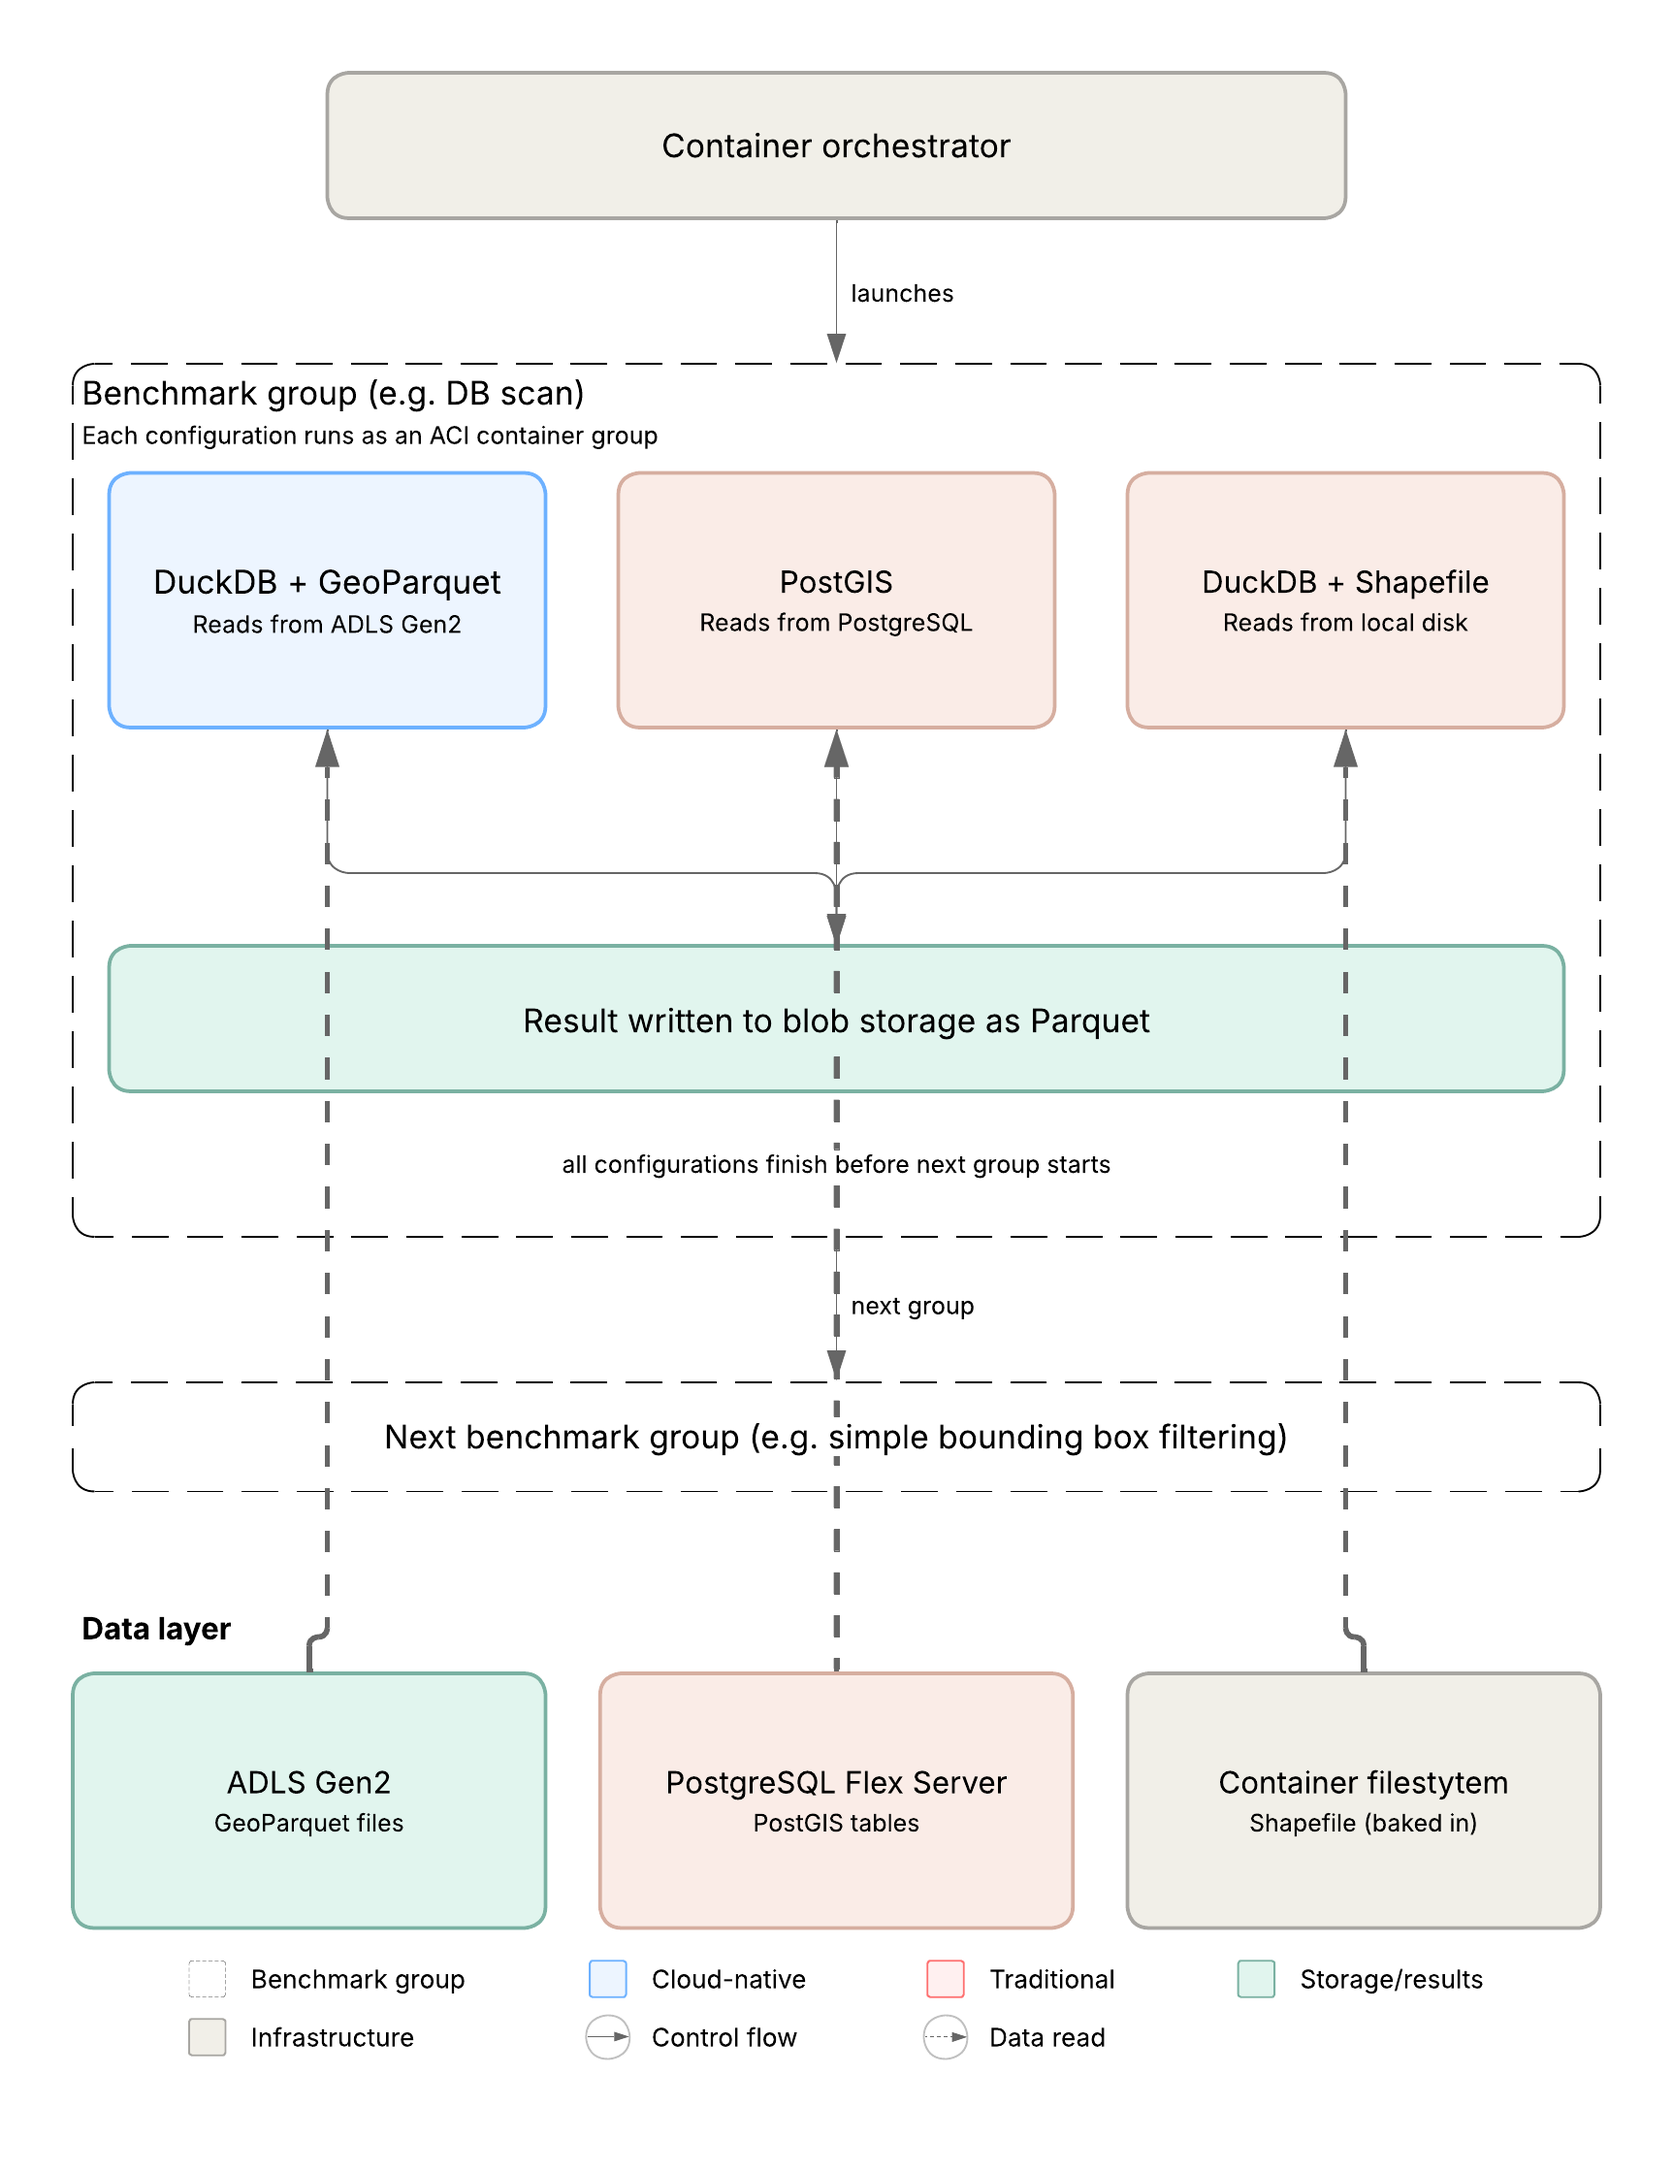
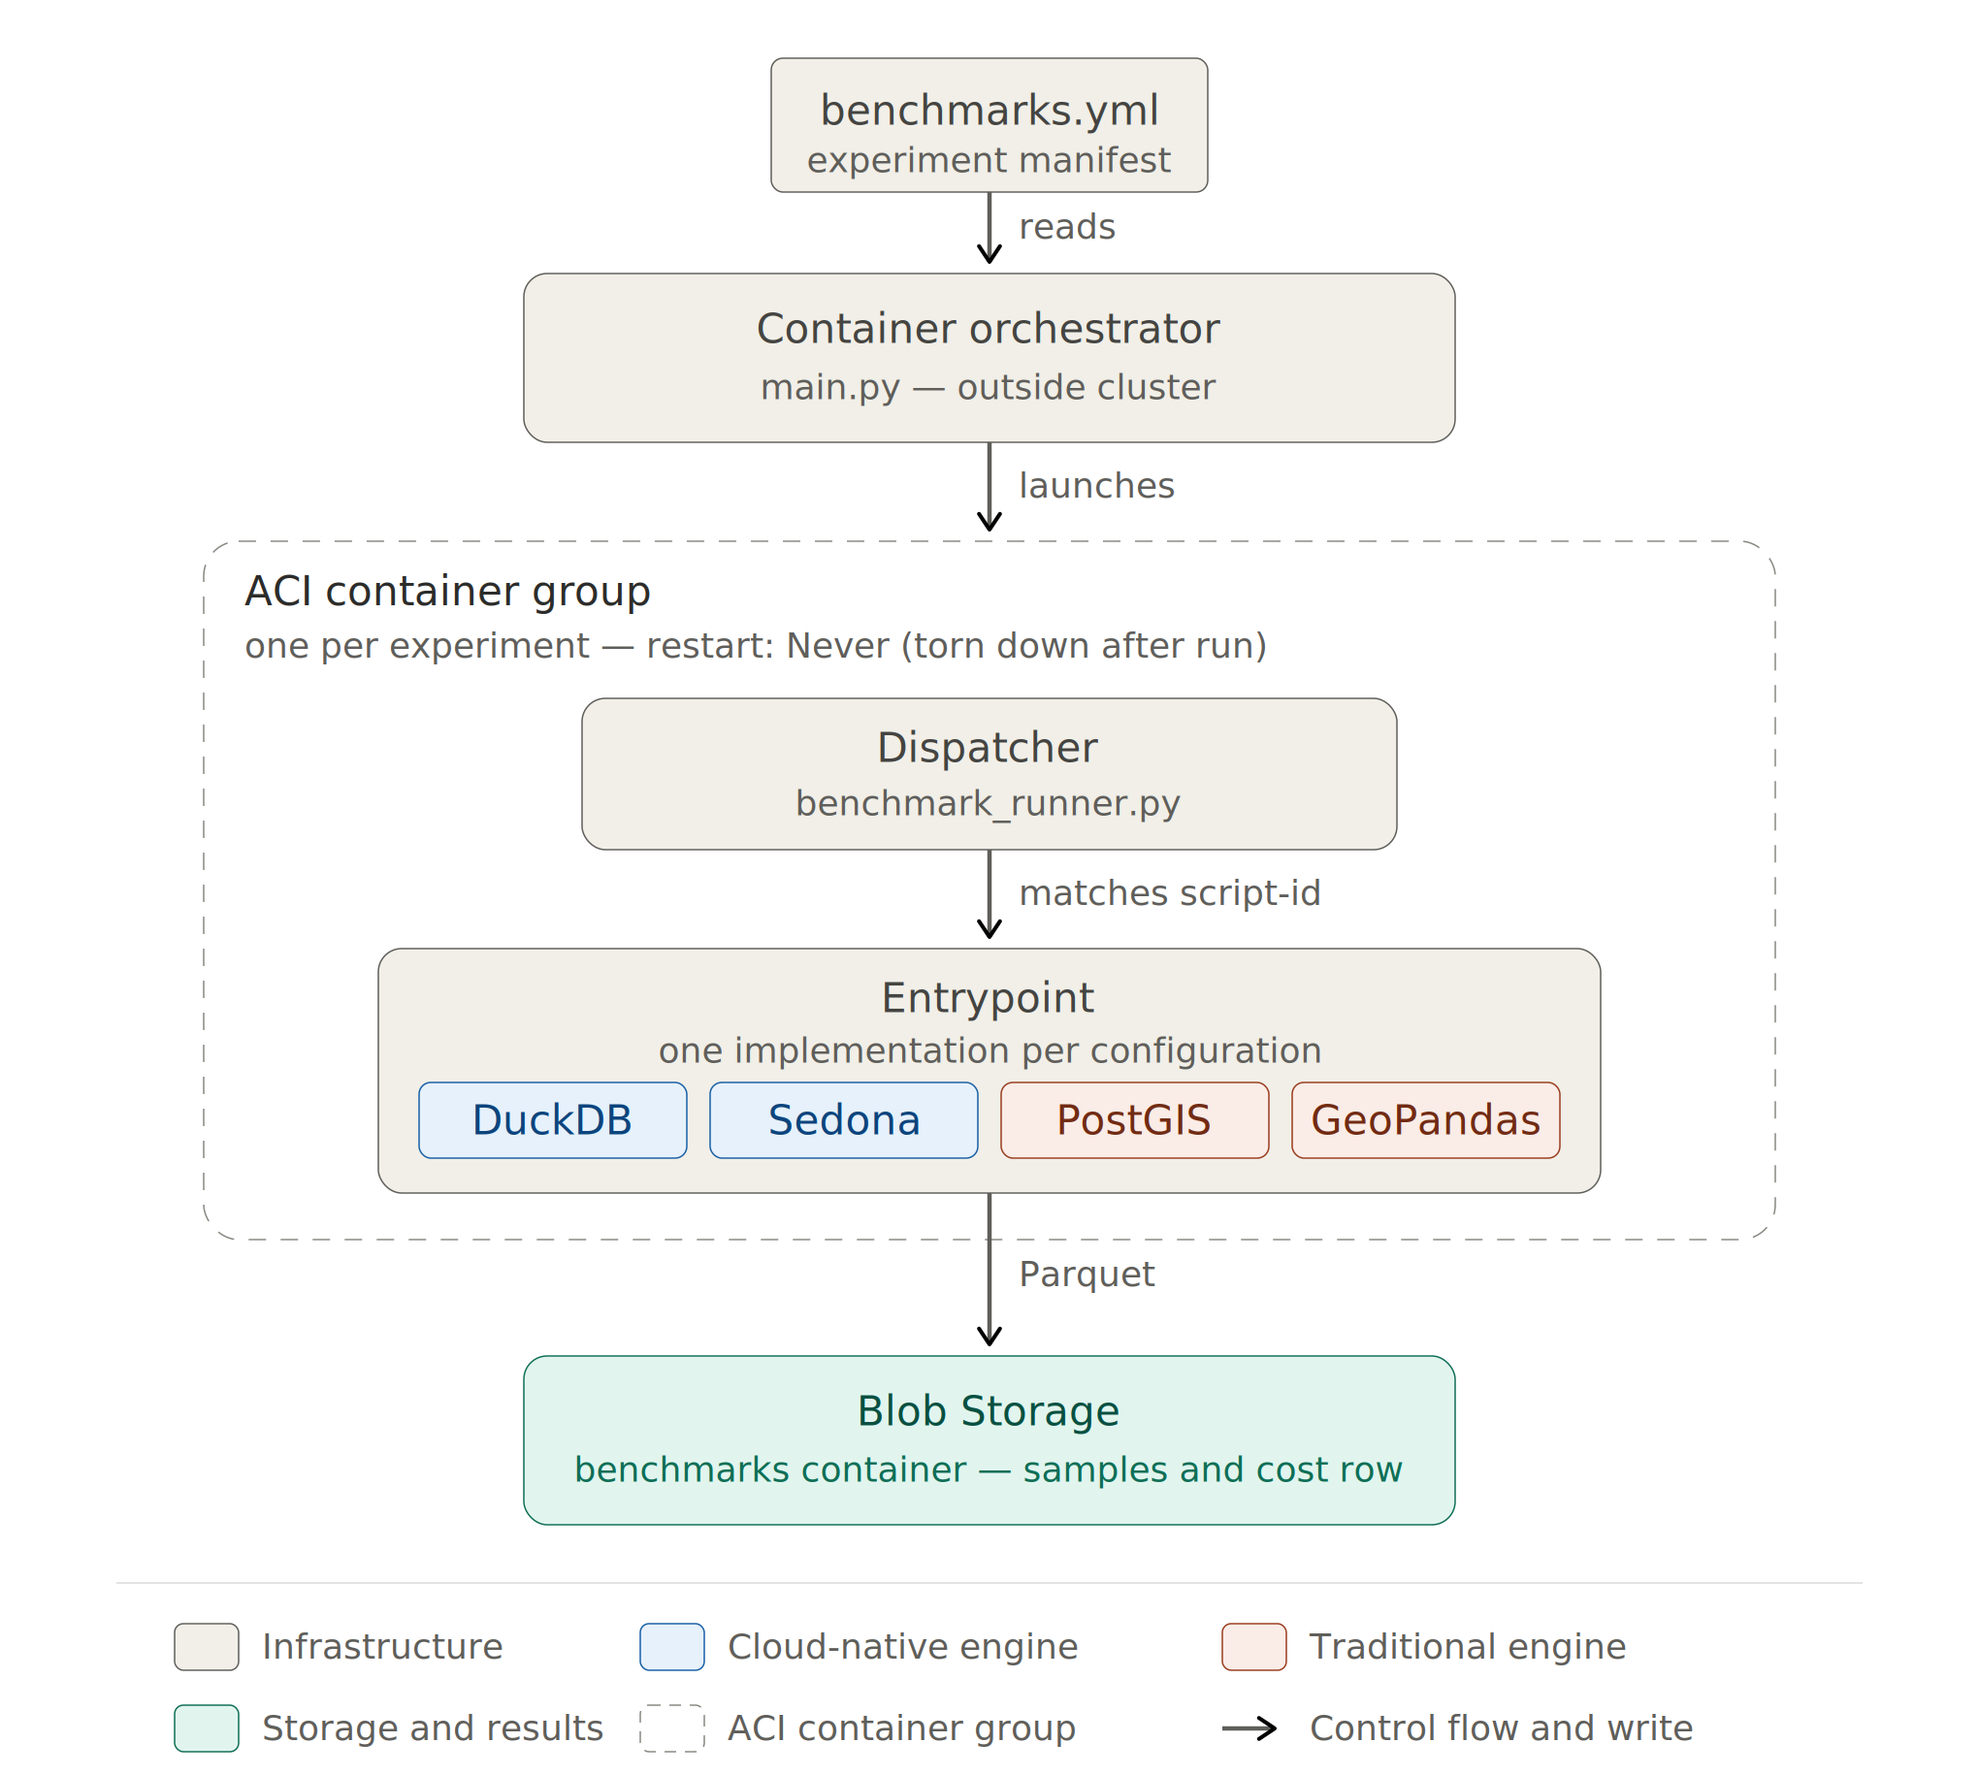
Updates from Overleaf

diff --git a/Chapters/05-system-architecture-and-implementation/sub-chapters/01-architecture-overview.tex b/Chapters/05-system-architecture-and-implementation/sub-chapters/01-architecture-overview.tex
@@ -7,7 +7,7 @@ Figure~\ref{fig:system-overview} shows the run-time layout. An orchestrator (\te
 
 \begin{figure}[H]
     \centering
-    \includegraphics[width=\textwidth]{Chapters/05-system-architecture-and-implementation/sub-chapters/figures/05-system-overvie}
+    \includegraphics[width=\textwidth]{Chapters/05-system-architecture-and-implementation/sub-chapters/figures/05-system-overview.png}
     \caption{Benchmark system architecture overview}
     \label{fig:system-overview}
 \end{figure}
